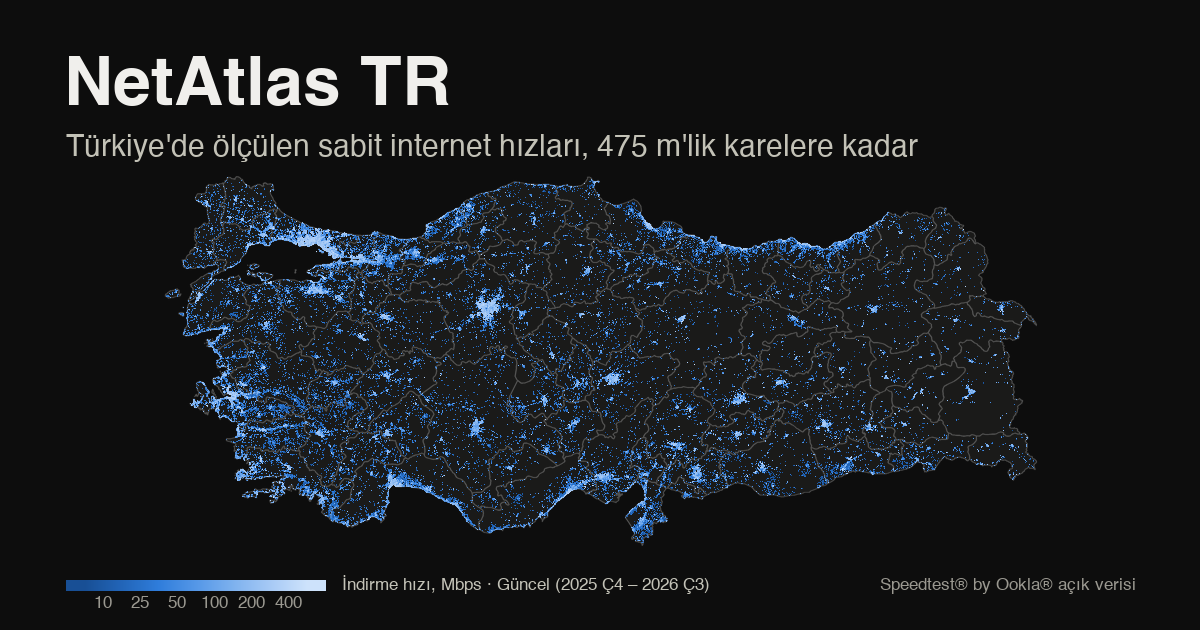
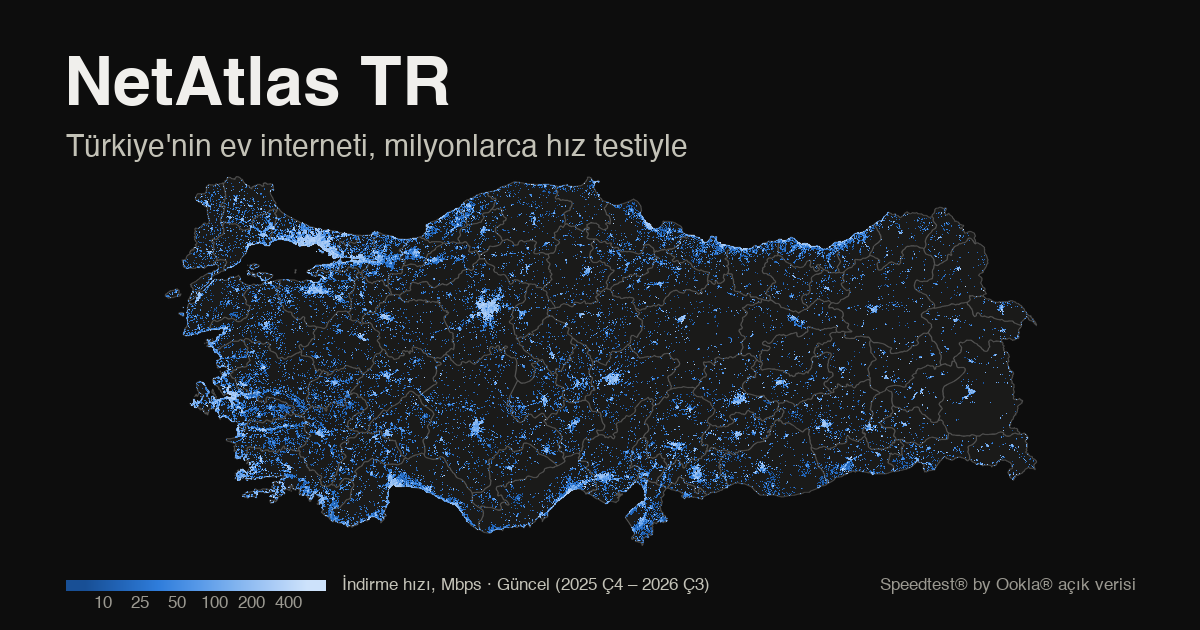
Say what the site is in plain words under its title, in the preview image and in its description

Changed region(s): [[0.1542, 0.2111, 0.7708, 0.2714]]

diff --git a/web/components/Atlas.tsx b/web/components/Atlas.tsx
@@ -81,7 +81,7 @@ export default function Atlas({ periods }: { periods: PeriodInfo[] }) {
       <header className={styles.header}>
         <div className={styles.brand}>
           <h1 className={styles.title}>NetAtlas TR</h1>
-          <p className={styles.subtitle}>Türkiye&apos;de ölçülen sabit internet hızları, 475 m&apos;lik karelere kadar</p>
+          <p className={styles.subtitle}>Türkiye&apos;nin ev interneti, milyonlarca hız testiyle</p>
         </div>
         <SearchBox onPick={pickPlace} />
         <nav className={styles.nav} aria-label="Sayfalar">

diff --git a/web/app/layout.tsx b/web/app/layout.tsx
@@ -7,7 +7,7 @@ export const metadata: Metadata = {
   // Link previews show opengraph-image.png (drawn from the data), which needs an absolute address.
   metadataBase: new URL(SITE_ORIGIN),
   title: "NetAtlas TR",
-  description: "Türkiye ev interneti atlası: ölçülen sabit internet hızları, 475 m'lik karelerde.",
+  description: "Türkiye'nin ev interneti, milyonlarca hız testiyle: il ve ilçelere göre ölçülen indirme, yükleme ve gecikme, 2019'dan bugüne.",
 };
 
 export default function RootLayout({ children }: LayoutProps<"/">) {

diff --git a/pipeline/preview.py b/pipeline/preview.py
@@ -190,7 +190,7 @@ def draw(period: dict) -> Image.Image:
     # Title, subtitle, and a legend with the period and the source along the bottom.
     text = ImageDraw.Draw(image)
     text.text((64, 52), "NetAtlas TR", font=fonts(68, bold=True), fill=INK)
-    text.text((66, 132), "Türkiye'de ölçülen sabit internet hızları, 475 m'lik karelere kadar", font=fonts(30), fill=INK_2)
+    text.text((66, 132), "Türkiye'nin ev interneti, milyonlarca hız testiyle", font=fonts(30), fill=INK_2)
 
     bar_left, bar_top, bar_width, bar_height = 66, HEIGHT - 50, 260, 10
     for i in range(bar_width):
